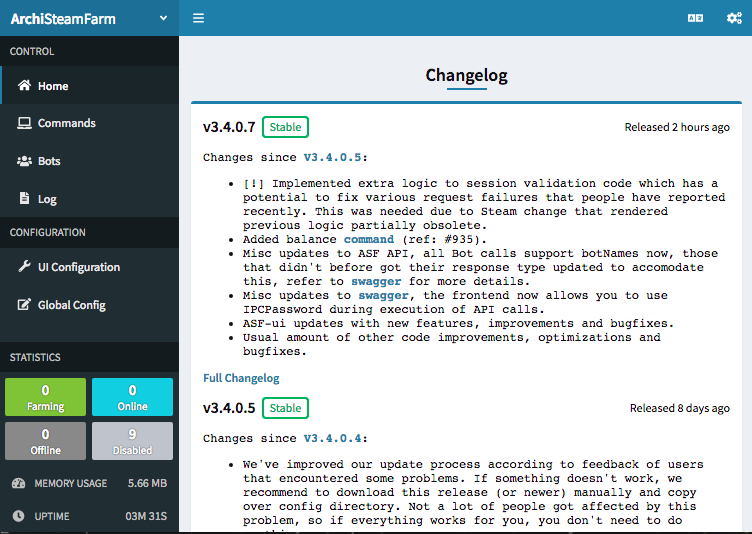
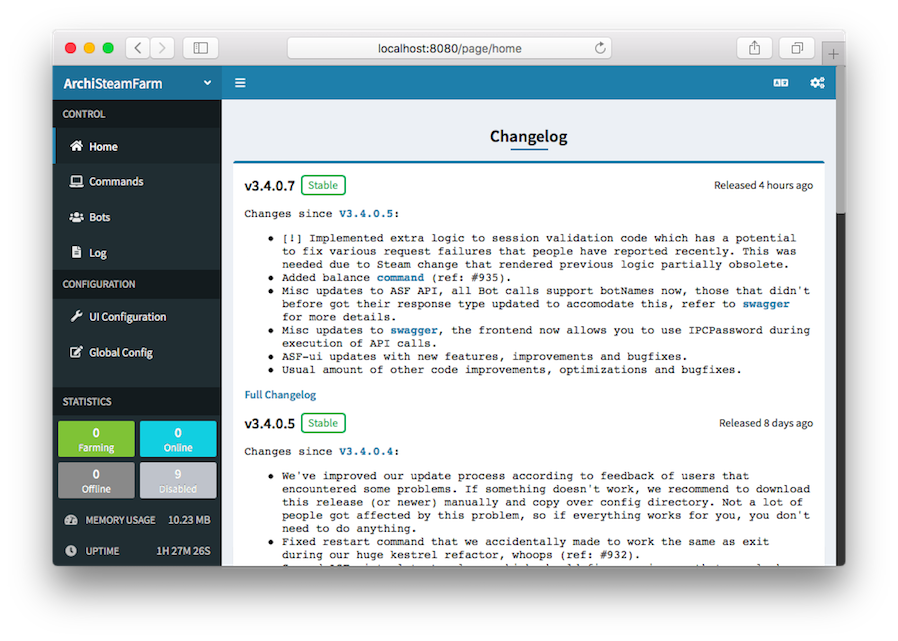
Add nice safari screenshot

diff --git a/README.md b/README.md
@@ -1,7 +1,3 @@
-<p align="center">
-  <img src="https://raw.githubusercontent.com/JustArchiNET/ASF-ui/master/preview.png">
-</p>
-
 # ASF-ui
 
 Standalone interface for ASF
@@ -9,6 +5,8 @@ Standalone interface for ASF
 [![Build status (Travis)](https://img.shields.io/travis/com/JustArchiNET/ASF-ui/master.svg?label=Travis&maxAge=600)](https://travis-ci.com/JustArchiNET/ASF-ui)
 [![License](https://img.shields.io/github/license/JustArchiNET/ASF-ui.svg?label=License&maxAge=2592000)](https://github.com/JustArchiNET/ASF-ui/blob/master/LICENSE-2.0.txt)
 [![Localization](https://d322cqt584bo4o.cloudfront.net/archisteamfarm/localized.svg)](https://crowdin.com/project/archisteamfarm)
+
+<img src="https://raw.githubusercontent.com/JustArchiNET/ASF-ui/master/preview.png">
 
 ***
 
